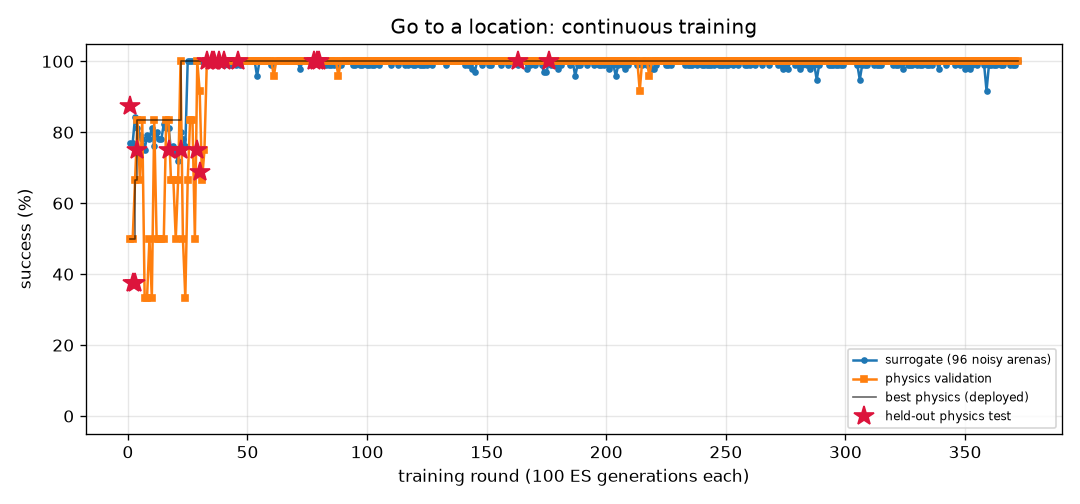
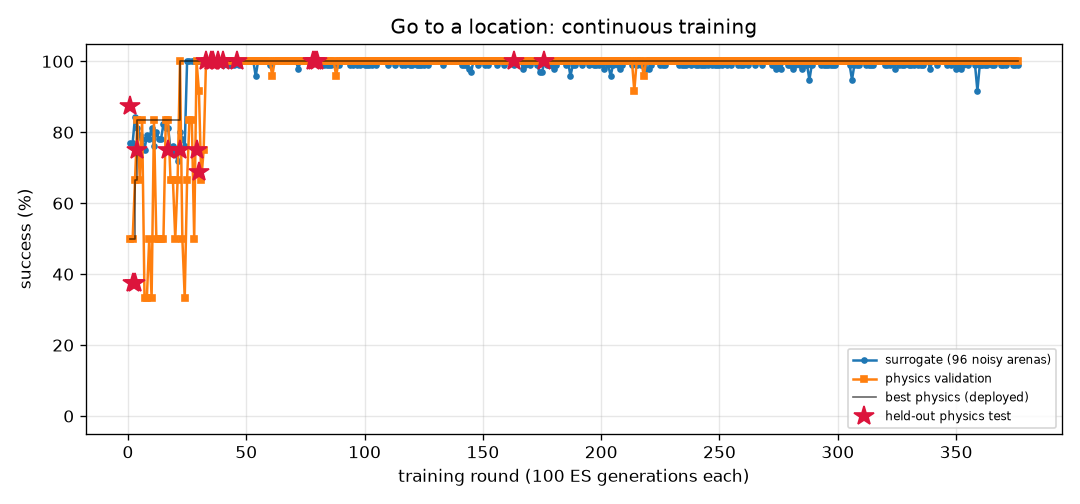
FlyLab: continuous training progress
- walk_forward: optimal, physics val 100% of 24, round 484
- turn: optimal, physics val 100% of 24, round 1252
- goto: optimal, physics val 100% of 24, round 376
- odor_seek: optimal, physics val 100% of 24, round 298
- odor_avoid: optimal, physics val 100% of 24, round 1067
- light_seek: optimal, physics val 100% of 24, round 576
- light_avoid: optimal, physics val 100% of 24, round 783

diff --git a/projects/09_flylab/training/walk_forward/REPORT.md b/projects/09_flylab/training/walk_forward/REPORT.md
@@ -1,14 +1,14 @@
 # Walk forward (`walk_forward`) — training report
 
-*Auto-generated by `train_brains.py`, last updated 2026-11-21T18:24:51.*
+*Auto-generated by `train_brains.py`, last updated 2026-11-21T21:59:15.*
 
 ![curve](curve.png)
 
 | | |
 |---|---|
-| rounds | 479 |
-| ES generations | 47900 |
-| physics runs | 11542 |
+| rounds | 484 |
+| ES generations | 48400 |
+| physics runs | 11662 |
 | status | **optimal** |
 | best brain | round 437: physics validation **100%** on 24 arenas, surrogate 99% |
 | held-out physics test | **100%** on 32 unseen arenas (95% CI 89%-100%) (errors: [0.13, 0.13, 0.18, 0.2, 0.13, 0.13, 0.13, 0.2, 0.2, 0.19, 0.18, 0.13, 0.21, 0.19, 0.13, 0.15, 0.13, 0.13, 0.13, 0.16, 0.17, 0.2, 0.13, 0.12, 0.13, 0.13, 0.2, 0.13, 0.13, 0.13, 0.19, 0.13]) |
@@ -17,11 +17,6 @@ Physics error per arena: mm from target at the end (< 1.5 and standing still = s
 
 | round | level | gens | sigma | surrogate | physics val | val errors | test | note |
 |---:|---:|---:|---:|---:|---:|---|---:|---|
-| 440 | 3 | 44000 | 0.024 | 100% | 100% | [0.13, 0.19, 0.06, 0.13, 0.19, 0.06, 0.2, 0.04, 0.19, 0.2, 0.06, 0.19, 0.05, 0.06, 0.15, 0.19, 0.08, 0.18, 0.07, 0.16, 0.08, 0.19, 0.19, 0.06] |  |  |
-| 441 | 3 | 44100 | 0.024 | 100% | 100% | [0.3, 0.22, 0.05, 0.3, 0.19, 0.05, 0.25, 0.25, 0.23, 0.32, 0.05, 0.39, 0.06, 0.06, 0.13, 0.36, 0.3, 0.23, 0.26, 0.15, 0.27, 0.37, 0.39, 0.26] |  | restart from best |
-| 442 | 3 | 44200 | 0.025 | 100% | 100% | [0.31, 0.05, 0.26, 0.31, 0.06, 0.25, 0.04, 0.31, 0.05, 0.14, 0.19, 0.21, 0.3, 0.24, 0.31, 0.16, 0.32, 0.03, 0.31, 0.32, 0.33, 0.15, 0.19, 0.3] |  |  |
-| 443 | 3 | 44300 | 0.024 | 100% | 100% | [0.31, 0.32, 0.26, 0.32, 0.32, 0.25, 0.32, 0.29, 0.32, 0.3, 0.24, 0.28, 0.28, 0.25, 0.32, 0.29, 0.31, 0.33, 0.29, 0.33, 0.3, 0.29, 0.27, 0.28] |  |  |
-| 444 | 3 | 44400 | 0.024 | 99% | 100% | [0.2, 0.2, 0.16, 0.2, 0.2, 0.15, 0.2, 0.18, 0.2, 0.19, 0.13, 0.17, 0.17, 0.15, 0.2, 0.19, 0.19, 0.2, 0.18, 0.2, 0.18, 0.19, 0.17, 0.17] |  |  |
 | 445 | 3 | 44500 | 0.025 | 100% | 100% | [0.17, 0.21, 0.14, 0.16, 0.21, 0.13, 0.21, 0.14, 0.21, 0.22, 0.14, 0.22, 0.14, 0.13, 0.17, 0.21, 0.15, 0.2, 0.14, 0.18, 0.14, 0.22, 0.21, 0.14] |  | restart from best |
 | 446 | 3 | 44600 | 0.025 | 100% | 100% | [0.31, 0.35, 0.27, 0.31, 0.35, 0.27, 0.36, 0.27, 0.36, 0.37, 0.27, 0.38, 0.28, 0.27, 0.31, 0.38, 0.29, 0.34, 0.27, 0.32, 0.27, 0.37, 0.37, 0.27] |  |  |
 | 447 | 3 | 44700 | 0.024 | 100% | 100% | [0.23, 0.24, 0.08, 0.23, 0.25, 0.05, 0.25, 0.19, 0.25, 0.23, 0.05, 0.22, 0.09, 0.12, 0.25, 0.23, 0.22, 0.25, 0.19, 0.25, 0.2, 0.23, 0.21, 0.07] |  |  |
@@ -57,3 +52,8 @@ Physics error per arena: mm from target at the end (< 1.5 and standing still = s
 | 477 | 3 | 47700 | 0.024 | 100% | 100% | [0.22, 0.24, 0.22, 0.22, 0.24, 0.22, 0.25, 0.23, 0.25, 0.28, 0.22, 0.29, 0.23, 0.22, 0.21, 0.29, 0.21, 0.23, 0.22, 0.22, 0.22, 0.28, 0.29, 0.23] |  | restart from best |
 | 478 | 3 | 47800 | 0.025 | 100% | 100% | [0.26, 0.28, 0.21, 0.26, 0.28, 0.19, 0.27, 0.23, 0.28, 0.26, 0.18, 0.24, 0.22, 0.2, 0.27, 0.25, 0.25, 0.28, 0.23, 0.27, 0.24, 0.26, 0.24, 0.22] |  |  |
 | 479 | 3 | 47900 | 0.024 | 100% | 100% | [0.23, 0.26, 0.18, 0.23, 0.26, 0.17, 0.26, 0.19, 0.26, 0.26, 0.17, 0.26, 0.19, 0.18, 0.24, 0.26, 0.21, 0.26, 0.2, 0.25, 0.21, 0.26, 0.26, 0.19] |  |  |
+| 480 | 3 | 48000 | 0.024 | 100% | 100% | [0.2, 0.19, 0.08, 0.13, 0.18, 0.05, 0.18, 0.05, 0.19, 0.21, 0.07, 0.2, 0.15, 0.03, 0.08, 0.19, 0.19, 0.16, 0.15, 0.08, 0.18, 0.22, 0.23, 0.08] |  |  |
+| 481 | 3 | 48100 | 0.024 | 100% | 100% | [0.34, 0.35, 0.28, 0.33, 0.35, 0.27, 0.34, 0.29, 0.34, 0.33, 0.27, 0.31, 0.29, 0.27, 0.34, 0.31, 0.32, 0.35, 0.3, 0.33, 0.31, 0.33, 0.3, 0.29] |  | restart from best |
+| 482 | 3 | 48200 | 0.025 | 99% | 100% | [0.26, 0.17, 0.24, 0.26, 0.17, 0.23, 0.15, 0.25, 0.14, 0.11, 0.22, 0.06, 0.25, 0.23, 0.12, 0.1, 0.26, 0.18, 0.25, 0.13, 0.25, 0.08, 0.12, 0.25] |  |  |
+| 483 | 3 | 48300 | 0.025 | 100% | 100% | [0.22, 0.27, 0.2, 0.21, 0.27, 0.07, 0.27, 0.19, 0.27, 0.28, 0.2, 0.26, 0.19, 0.19, 0.23, 0.27, 0.2, 0.26, 0.19, 0.24, 0.19, 0.28, 0.26, 0.19] |  |  |
+| 484 | 3 | 48400 | 0.024 | 99% | 96% | [0.08, 0.07, 0.14, 0.06, 0.06, 0.04, 0.06, 0.05, 0.05, 0.09, 0.09, 0.11, 0.12, 0.03, 0.1, 0.08, 0.05, 0.3, 0.06, 0.28, 0.05, 0.08, 0.08, 0.12] |  |  |

diff --git a/projects/09_flylab/training/goto/REPORT.md b/projects/09_flylab/training/goto/REPORT.md
@@ -1,14 +1,14 @@
 # Go to a location (`goto`) — training report
 
-*Auto-generated by `train_brains.py`, last updated 2026-11-21T20:51:29.*
+*Auto-generated by `train_brains.py`, last updated 2026-11-21T21:49:56.*
 
 ![curve](curve.png)
 
 | | |
 |---|---|
-| rounds | 372 |
-| ES generations | 37200 |
-| physics runs | 8878 |
+| rounds | 376 |
+| ES generations | 37600 |
+| physics runs | 8974 |
 | status | **optimal** |
 | best brain | round 176: physics validation **100%** on 24 arenas, surrogate 100% |
 | held-out physics test | **100%** on 32 unseen arenas (95% CI 89%-100%) (errors: [0.2, 0.32, 0.19, 0.24, 0.18, 0.2, 0.19, 0.17, 0.22, 0.23, 0.23, 0.26, 0.2, 0.19, 0.24, 0.23, 0.22, 0.24, 0.2, 0.22, 0.2, 0.2, 0.26, 0.19, 0.22, 0.18, 0.26, 0.22, 0.2, 0.26, 0.23, 0.23]) |
@@ -17,10 +17,6 @@ Physics error per arena: mm from target at the end (< 1.5 and standing still = s
 
 | round | level | gens | sigma | surrogate | physics val | val errors | test | note |
 |---:|---:|---:|---:|---:|---:|---|---:|---|
-| 333 | 3 | 33300 | 0.024 | 100% | 100% | [0.46, 0.45, 0.4, 0.45, 0.36, 0.42, 0.43, 0.43, 0.45, 0.37, 0.36, 0.43, 0.45, 0.4, 0.38, 0.44, 0.46, 0.43, 0.36, 0.46, 0.42, 0.38, 0.47, 0.44] |  |  |
-| 334 | 3 | 33400 | 0.024 | 99% | 100% | [0.38, 0.4, 0.28, 0.29, 0.33, 0.27, 0.4, 0.31, 0.34, 0.3, 0.28, 0.31, 0.38, 0.3, 0.33, 0.37, 0.4, 0.3, 0.29, 0.35, 0.34, 0.32, 0.39, 0.29] |  |  |
-| 335 | 3 | 33500 | 0.025 | 99% | 100% | [0.42, 0.43, 0.29, 0.32, 0.34, 0.31, 0.41, 0.38, 0.37, 0.31, 0.3, 0.33, 0.4, 0.34, 0.39, 0.39, 0.44, 0.34, 0.3, 0.37, 0.37, 0.31, 0.42, 0.31] |  |  |
-| 336 | 3 | 33600 | 0.025 | 99% | 100% | [0.52, 0.52, 0.56, 0.49, 0.54, 0.49, 0.53, 0.55, 0.5, 0.49, 0.5, 0.49, 0.56, 0.5, 0.49, 0.55, 0.54, 0.51, 0.49, 0.55, 0.56, 0.49, 0.55, 0.5] |  | restart from best |
 | 337 | 3 | 33700 | 0.024 | 100% | 100% | [0.56, 0.47, 0.5, 0.5, 0.39, 0.46, 0.54, 0.51, 0.53, 0.42, 0.41, 0.47, 0.55, 0.39, 0.48, 0.44, 0.55, 0.43, 0.41, 0.59, 0.41, 0.49, 0.53, 0.5] |  |  |
 | 338 | 3 | 33800 | 0.024 | 100% | 100% | [0.68, 0.68, 0.58, 0.62, 0.59, 0.61, 0.69, 0.63, 0.64, 0.6, 0.57, 0.62, 0.66, 0.61, 0.64, 0.63, 0.7, 0.59, 0.59, 0.65, 0.63, 0.63, 0.69, 0.61] |  |  |
 | 339 | 3 | 33900 | 0.024 | 98% | 100% | [0.34, 0.42, 0.26, 0.3, 0.28, 0.28, 0.34, 0.35, 0.35, 0.29, 0.27, 0.32, 0.35, 0.31, 0.41, 0.36, 0.43, 0.27, 0.25, 0.35, 0.33, 0.29, 0.41, 0.3] |  |  |
@@ -57,3 +53,7 @@ Physics error per arena: mm from target at the end (< 1.5 and standing still = s
 | 370 | 3 | 37000 | 0.025 | 99% | 100% | [0.52, 0.44, 0.45, 0.44, 0.36, 0.4, 0.46, 0.42, 0.48, 0.38, 0.37, 0.42, 0.5, 0.33, 0.47, 0.4, 0.54, 0.42, 0.4, 0.52, 0.37, 0.45, 0.5, 0.42] |  |  |
 | 371 | 3 | 37100 | 0.025 | 99% | 100% | [0.55, 0.45, 0.46, 0.4, 0.35, 0.37, 0.48, 0.37, 0.44, 0.37, 0.36, 0.4, 0.5, 0.32, 0.46, 0.37, 0.51, 0.41, 0.36, 0.43, 0.36, 0.37, 0.48, 0.39] |  |  |
 | 372 | 3 | 37200 | 0.025 | 100% | 100% | [0.53, 0.5, 0.51, 0.44, 0.38, 0.4, 0.54, 0.45, 0.5, 0.39, 0.38, 0.43, 0.49, 0.39, 0.49, 0.46, 0.57, 0.4, 0.37, 0.45, 0.42, 0.41, 0.54, 0.41] |  | restart from best |
+| 373 | 3 | 37300 | 0.024 | 100% | 100% | [0.46, 0.5, 0.44, 0.51, 0.44, 0.49, 0.49, 0.51, 0.48, 0.44, 0.44, 0.49, 0.48, 0.47, 0.45, 0.52, 0.49, 0.49, 0.44, 0.48, 0.5, 0.46, 0.47, 0.51] |  |  |
+| 374 | 3 | 37400 | 0.024 | 99% | 100% | [0.54, 0.56, 0.5, 0.55, 0.46, 0.52, 0.57, 0.57, 0.58, 0.48, 0.46, 0.54, 0.56, 0.5, 0.56, 0.56, 0.57, 0.51, 0.46, 0.57, 0.52, 0.5, 0.55, 0.55] |  |  |
+| 375 | 3 | 37500 | 0.025 | 99% | 100% | [0.24, 0.24, 0.31, 0.31, 0.25, 0.32, 0.29, 0.28, 0.27, 0.26, 0.27, 0.31, 0.27, 0.31, 0.23, 0.3, 0.26, 0.32, 0.25, 0.32, 0.29, 0.26, 0.24, 0.33] |  |  |
+| 376 | 3 | 37600 | 0.025 | 99% | 100% | [0.25, 0.25, 0.22, 0.25, 0.2, 0.21, 0.27, 0.24, 0.25, 0.25, 0.23, 0.26, 0.27, 0.22, 0.34, 0.24, 0.33, 0.19, 0.24, 0.3, 0.22, 0.28, 0.29, 0.23] |  | restart from best |

diff --git a/projects/09_flylab/training/light_seek/REPORT.md b/projects/09_flylab/training/light_seek/REPORT.md
@@ -1,14 +1,14 @@
 # Walk toward light (`light_seek`) — training report
 
-*Auto-generated by `train_brains.py`, last updated 2026-11-21T20:50:30.*
+*Auto-generated by `train_brains.py`, last updated 2026-11-21T21:06:49.*
 
 ![curve](curve.png)
 
 | | |
 |---|---|
-| rounds | 575 |
-| ES generations | 57500 |
-| physics runs | 10680 |
+| rounds | 576 |
+| ES generations | 57600 |
+| physics runs | 10704 |
 | status | **optimal** |
 | best brain | round 375: physics validation **100%** on 24 arenas, surrogate 100% |
 | held-out physics test | **100%** on 32 unseen arenas (95% CI 89%-100%) (errors: [0.57, 0.54, 0.53, 0.57, 0.55, 0.56, 0.59, 0.56, 0.53, 0.56, 0.71, 0.56, 0.55, 0.54, 0.53, 0.54, 0.54, 0.55, 0.52, 0.65, 0.64, 0.7, 0.58, 0.57, 0.6, 0.62, 0.55, 0.88, 0.54, 0.52, 0.62, 0.57]) |
@@ -17,7 +17,6 @@ Physics error per arena: mm from target at the end (< 1.5 and standing still = s
 
 | round | level | gens | sigma | surrogate | physics val | val errors | test | note |
 |---:|---:|---:|---:|---:|---:|---|---:|---|
-| 536 | 3 | 53600 | 0.024 | 100% | 100% | [0.57, 0.53, 0.62, 0.51, 0.54, 0.83, 0.64, 0.81, 0.51, 0.51, 0.59, 0.66, 0.55, 0.61, 0.53, 0.56, 0.52, 0.65, 0.59, 0.82, 0.68, 0.63, 0.84, 0.82] |  |  |
 | 537 | 3 | 53700 | 0.024 | 100% | 88% | [0.58, 0.68, 0.98, 0.58, 0.64, 0.61, 0.74, 1.61, 1.1, 0.61, 1.48, 0.7, 0.58, 1.16, 1.01, 0.6, 0.62, 0.63, 0.59, 0.72, 0.76, 1.59, 0.76, 1.33] |  |  |
 | 538 | 3 | 53800 | 0.024 | 100% | 100% | [0.51, 0.62, 0.54, 0.61, 0.56, 0.55, 0.5, 0.53, 0.56, 0.55, 0.56, 0.56, 0.53, 0.56, 0.79, 0.58, 0.64, 0.56, 0.6, 0.63, 0.74, 0.52, 0.63, 0.69] |  |  |
 | 539 | 3 | 53900 | 0.024 | 100% | 100% | [0.68, 0.61, 0.59, 0.66, 0.56, 0.75, 0.57, 0.57, 0.57, 0.58, 0.59, 0.62, 0.65, 0.62, 0.64, 0.52, 0.74, 0.57, 0.64, 0.52, 0.62, 0.66, 0.73, 0.58] |  | restart from best |
@@ -57,3 +56,4 @@ Physics error per arena: mm from target at the end (< 1.5 and standing still = s
 | 573 | 3 | 57300 | 0.024 | 100% | 100% | [0.57, 0.63, 0.51, 0.49, 0.5, 0.53, 0.58, 0.61, 0.54, 0.53, 1.08, 0.52, 0.55, 1.01, 0.6, 0.51, 0.46, 1.06, 0.46, 0.59, 0.61, 0.57, 0.48, 0.52] |  |  |
 | 574 | 3 | 57400 | 0.024 | 100% | 100% | [0.61, 0.6, 0.62, 0.79, 0.6, 0.68, 0.6, 0.65, 0.7, 0.63, 0.61, 0.58, 0.65, 0.59, 0.6, 0.58, 0.59, 0.64, 0.59, 0.64, 0.62, 0.71, 0.67, 0.67] |  |  |
 | 575 | 3 | 57500 | 0.024 | 100% | 100% | [0.72, 0.61, 0.53, 0.57, 0.56, 0.53, 0.51, 0.8, 0.54, 0.7, 0.67, 0.73, 0.51, 0.68, 0.55, 0.65, 0.53, 0.53, 0.64, 0.5, 0.63, 0.71, 0.58, 0.63] |  | restart from best |
+| 576 | 3 | 57600 | 0.024 | 100% | 83% | [0.66, 0.6, 0.63, 0.71, 18.51, 0.63, 0.65, 0.62, 2.06, 0.59, 0.69, 0.65, 0.73, 1.83, 1.66, 0.63, 0.71, 1.04, 0.62, 0.55, 0.59, 0.74, 0.66, 0.69] |  |  |

diff --git a/projects/09_flylab/training/TRAINING.md b/projects/09_flylab/training/TRAINING.md
@@ -1,15 +1,15 @@
 # FlyLab brains — continuous training log
 
-*Auto-generated by `train_brains.py`, last updated 2026-11-21T20:51:29.*
+*Auto-generated by `train_brains.py`, last updated 2026-11-21T21:59:15.*
 
 Every skill has its own brain and its own training process: surrogate ES rounds, physics validation in MuJoCo, keep-the-best selection, and a held-out physics test that is never used for selection. See each skill's report for its full round-by-round history. Mastery is progressive: passing a level (100% physics validation, >=95% surrogate) doubles the validation and test arena sets; a brain is **optimal** once it holds up at level 3 (>=95% of 24 validation arenas) AND scores >=90% on the 32 held-out test arenas. Test columns show 95% Wilson confidence intervals.
 
 | skill | rounds | ES generations | physics runs | surrogate | physics val | **physics test** | status |
 |---|---:|---:|---:|---:|---:|---:|---|
-| [Walk forward](walk_forward/REPORT.md) | 479 | 47900 | 11542 | 99% | 100% of 24 | 100% of 32 (CI 89-100%) | **optimal** |
+| [Walk forward](walk_forward/REPORT.md) | 484 | 48400 | 11662 | 99% | 100% of 24 | 100% of 32 (CI 89-100%) | **optimal** |
 | [Turn in place](turn/REPORT.md) | 1252 | 125200 | 30294 | 100% | 100% of 24 | 97% of 32 (CI 84-99%) | **optimal** |
-| [Go to a location](goto/REPORT.md) | 372 | 37200 | 8878 | 100% | 100% of 24 | 100% of 32 (CI 89-100%) | **optimal** |
+| [Go to a location](goto/REPORT.md) | 376 | 37600 | 8974 | 100% | 100% of 24 | 100% of 32 (CI 89-100%) | **optimal** |
 | [Find food by smell](odor_seek/REPORT.md) | 298 | 29800 | 6646 | 100% | 100% of 24 | 100% of 32 (CI 89-100%) | **optimal** |
 | [Escape a bad smell](odor_avoid/REPORT.md) | 1067 | 106700 | 22914 | 97% | 100% of 24 | 97% of 32 (CI 84-99%) | **optimal** |
-| [Walk toward light](light_seek/REPORT.md) | 575 | 57500 | 10680 | 100% | 100% of 24 | 100% of 32 (CI 89-100%) | **optimal** |
+| [Walk toward light](light_seek/REPORT.md) | 576 | 57600 | 10704 | 100% | 100% of 24 | 100% of 32 (CI 89-100%) | **optimal** |
 | [Hide from light](light_avoid/REPORT.md) | 783 | 78300 | 19064 | 100% | 100% of 24 | 100% of 32 (CI 89-100%) | **optimal** |
